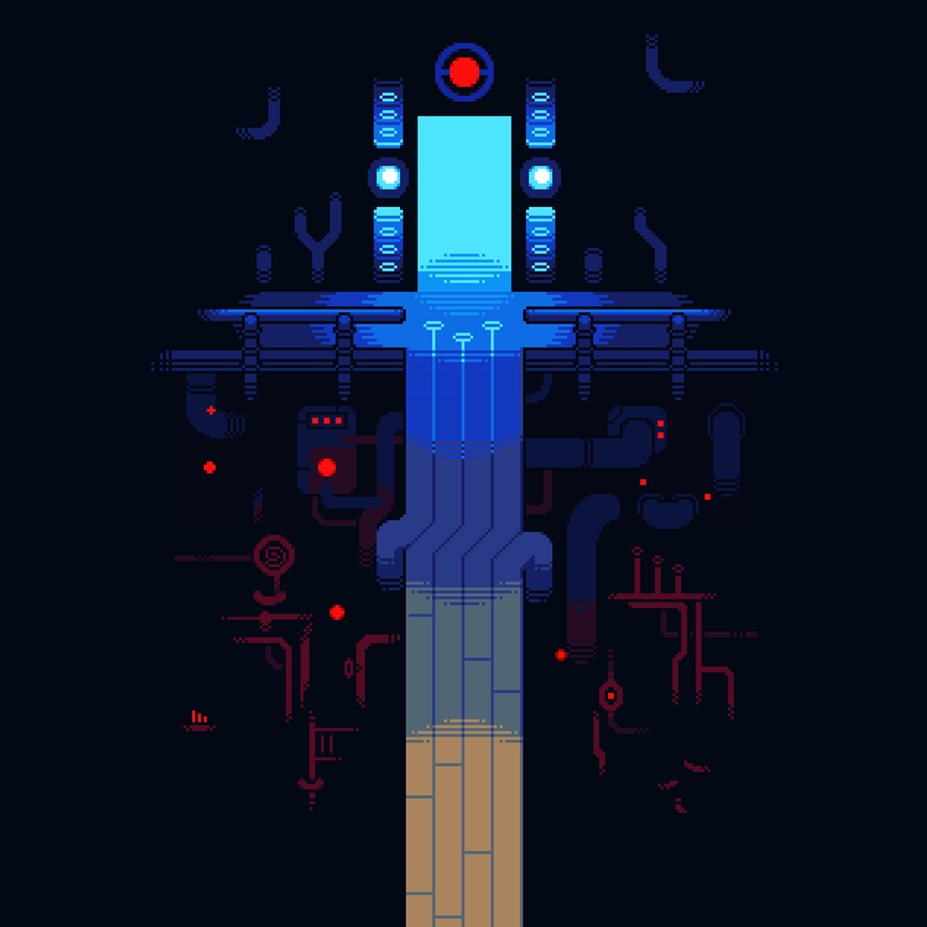
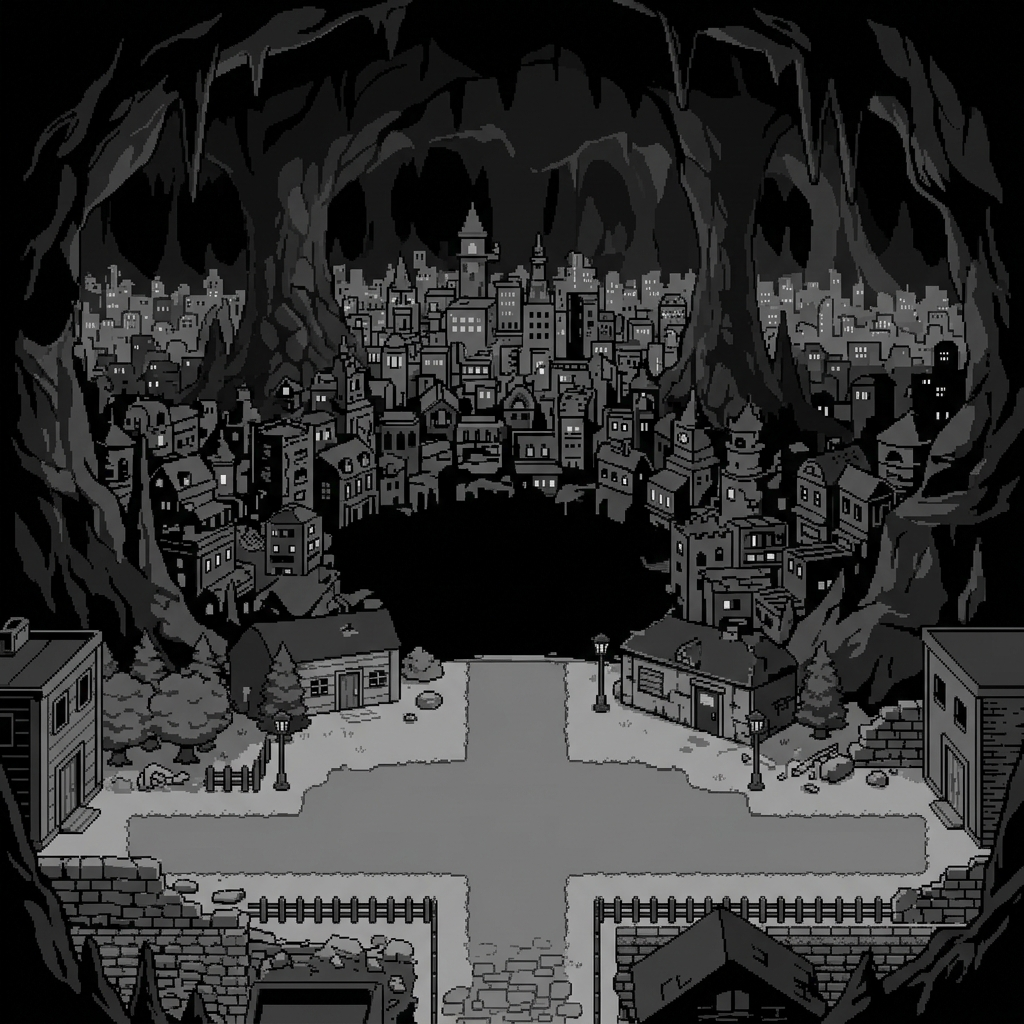
Replace temporary backgrounds with AI generated 16-bit widescreen backgrounds

diff --git a/script.js b/script.js
@@ -18,7 +18,7 @@ const COLORS = {
 const STAGES = [
     { bg: 'assets/ruins.png', audioId: 'bgm-ruins' },
     { bg: 'assets/bg.png', audioId: 'bgm-snowdin' },
-    { bg: 'assets/waterfall.jpg', audioId: 'bgm-waterfall' },
+    { bg: 'assets/waterfall.png', audioId: 'bgm-waterfall' },
     { bg: 'assets/hotland.png', audioId: 'bgm-hotland' },
     { bg: 'assets/newhome.png', audioId: 'bgm-newhome' }
 ];